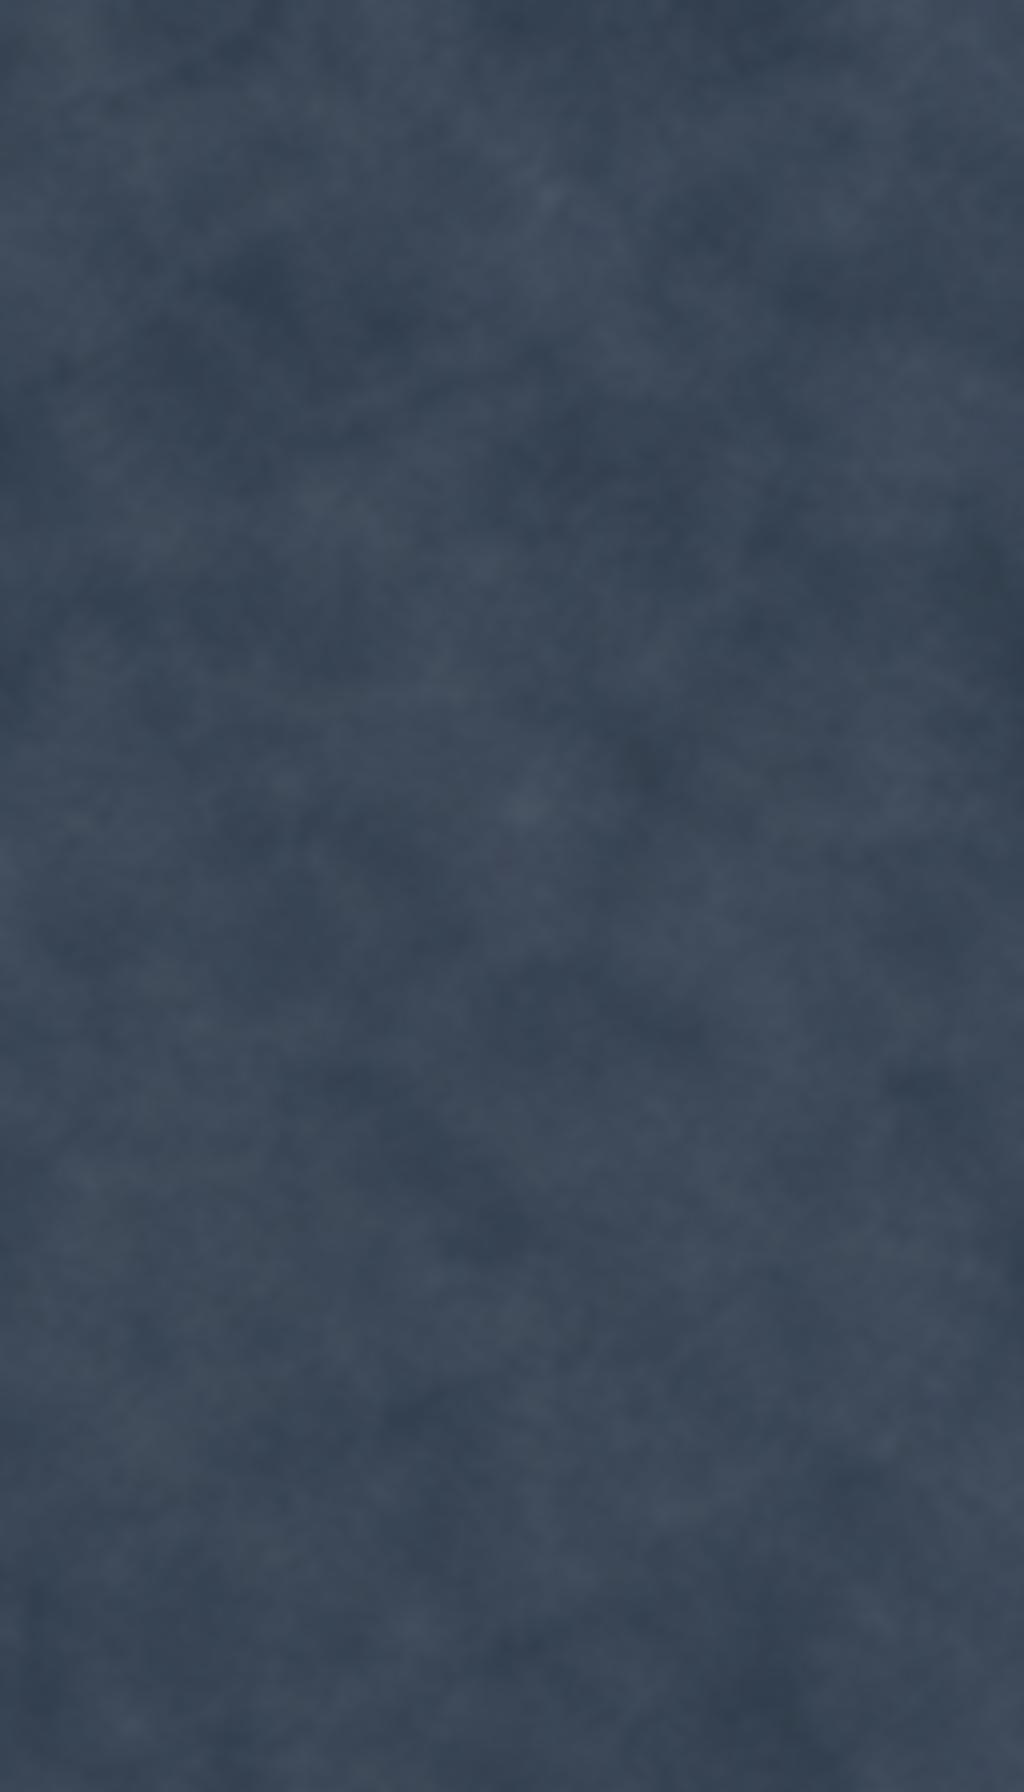
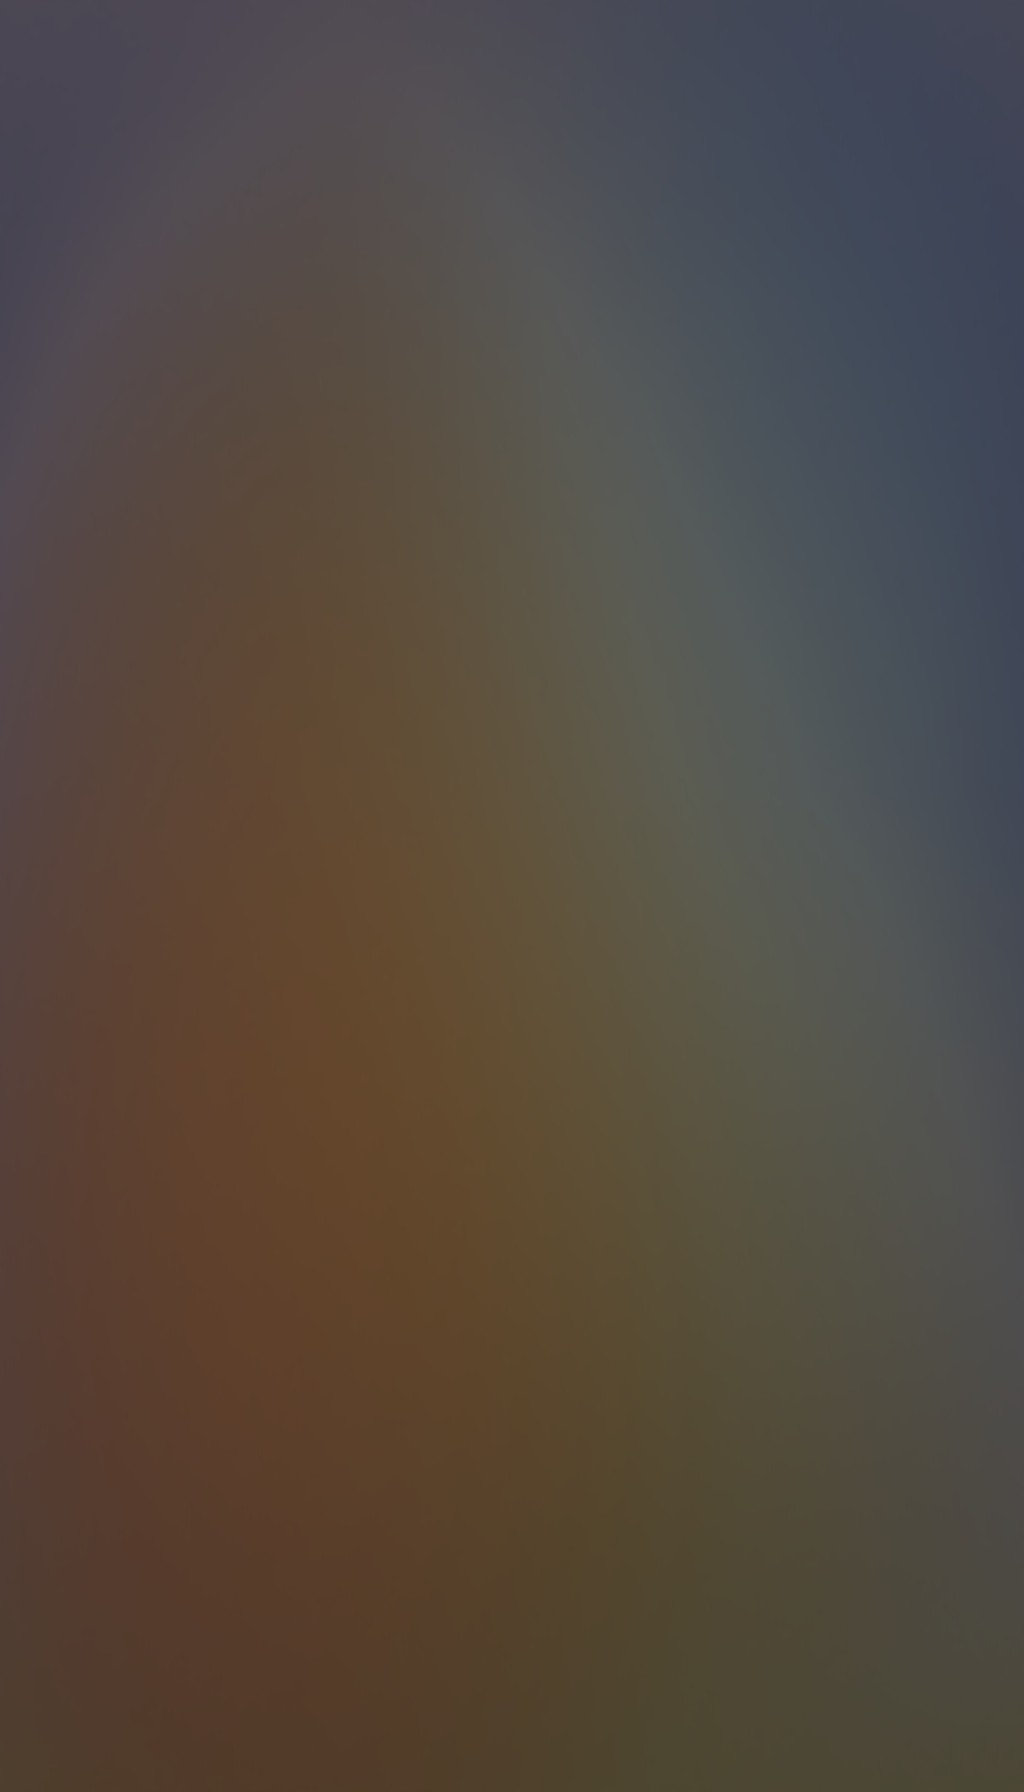
Le fond du builder reprend le dégradé du bandeau du site
Eric a aimé les couleurs du bandeau de la page d'accueil (le fond derrière
« Fate's Hand »). Les deux fonds du builder les reprennent — composition et
teintes : or #D8B65A, rouge #C97A5F, bleu #5A82AA sur un champ neutre.

⛔ PAS « À L'IDENTIQUE », ET C'EST MESURÉ. Le bandeau descend de #2E2C31 à
#171612, soit une luminance de ~45 à ~22. La bande de nuit du builder est
45–125. Or un fond trop sombre ne rend pas l'écran illisible : il fait
l'inverse, il monte le contraste de toutes les encres claires et fait PASSER
celles que la matrice exige de voir échouer. Trop sombre casse le garde par le
haut, exactement comme trop clair le casse par le bas. La composition est donc
conservée, la luminance réancrée dans la bande de chaque thème.

Les extrêmes visés sont ceux qui étaient EN PLACE, pas le milieu de la bande :
on remplace une image, pas un calibrage — toute la matrice de contraste reste
valide sans la réécrire.

  jour  : 142–169 (bande 104–190) · nuit : 74–102 (bande 45–125) · hors_bande 0
  --text tient partout (6,22 à 8,21) ; --text-soft et --accent restent sous
  4,5:1 sous les deux voiles, comme la matrice de shell.css l'exige.

TROIS CHOSES APPRISES EN MESURANT, ET QUI SONT DANS LE SCRIPT

1. La bande contraint la LUMINANCE, pas le CHROMA. Comprimés dans ~25 niveaux
   de gris, les deux premiers essais viraient au brouillard. Chaque pixel est
   donc écarté de son propre gris AVANT le réancrage : la couleur revient, la
   luminance retombe en bande.
[…]

diff --git a/ui/builder/index.html b/ui/builder/index.html
@@ -19,41 +19,41 @@
 <script type="importmap">
 {
   "imports": {
-    "../../src/build/block.mjs": "../../src/build/block.mjs?v=97",
-    "../../src/build/clock.mjs": "../../src/build/clock.mjs?v=97",
-    "../../src/build/decisions.mjs": "../../src/build/decisions.mjs?v=97",
-    "../../src/build/derive.mjs": "../../src/build/derive.mjs?v=97",
-    "../../src/build/diff.mjs": "../../src/build/diff.mjs?v=97",
-    "../../src/build/errors.mjs": "../../src/build/errors.mjs?v=97",
-    "../../src/build/paths.mjs": "../../src/build/paths.mjs?v=97",
-    "../../src/build/skills.mjs": "../../src/build/skills.mjs?v=97",
-    "../../src/build/validate.mjs": "../../src/build/validate.mjs?v=97",
-    "../../src/doc/errors.mjs": "../../src/doc/errors.mjs?v=97",
-    "../../src/doc/schema.mjs": "../../src/doc/schema.mjs?v=97",
-    "../../src/kernel/bus.mjs": "../../src/kernel/bus.mjs?v=97",
-    "../../src/kernel/registry.mjs": "../../src/kernel/registry.mjs?v=97",
-    "../../src/labels.mjs": "../../src/labels.mjs?v=97",
-    "../../src/layers/document.mjs": "../../src/layers/document.mjs?v=97",
-    "../../src/layers/paths.mjs": "../../src/layers/paths.mjs?v=97",
-    "../../src/layers/sha256.mjs": "../../src/layers/sha256.mjs?v=97",
-    "../../src/layers/stack.mjs": "../../src/layers/stack.mjs?v=97",
-    "../../src/modules/fh/labels.mjs": "../../src/modules/fh/labels.mjs?v=97",
-    "../../src/play/labels.mjs": "../../src/play/labels.mjs?v=97",
-    "../../src/schemas/invariants.mjs": "../../src/schemas/invariants.mjs?v=97"
+    "../../src/build/block.mjs": "../../src/build/block.mjs?v=98",
+    "../../src/build/clock.mjs": "../../src/build/clock.mjs?v=98",
+    "../../src/build/decisions.mjs": "../../src/build/decisions.mjs?v=98",
+    "../../src/build/derive.mjs": "../../src/build/derive.mjs?v=98",
+    "../../src/build/diff.mjs": "../../src/build/diff.mjs?v=98",
+    "../../src/build/errors.mjs": "../../src/build/errors.mjs?v=98",
+    "../../src/build/paths.mjs": "../../src/build/paths.mjs?v=98",
+    "../../src/build/skills.mjs": "../../src/build/skills.mjs?v=98",
+    "../../src/build/validate.mjs": "../../src/build/validate.mjs?v=98",
+    "../../src/doc/errors.mjs": "../../src/doc/errors.mjs?v=98",
+    "../../src/doc/schema.mjs": "../../src/doc/schema.mjs?v=98",
+    "../../src/kernel/bus.mjs": "../../src/kernel/bus.mjs?v=98",
+    "../../src/kernel/registry.mjs": "../../src/kernel/registry.mjs?v=98",
+    "../../src/labels.mjs": "../../src/labels.mjs?v=98",
+    "../../src/layers/document.mjs": "../../src/layers/document.mjs?v=98",
+    "../../src/layers/paths.mjs": "../../src/layers/paths.mjs?v=98",
+    "../../src/layers/sha256.mjs": "../../src/layers/sha256.mjs?v=98",
+    "../../src/layers/stack.mjs": "../../src/layers/stack.mjs?v=98",
+    "../../src/modules/fh/labels.mjs": "../../src/modules/fh/labels.mjs?v=98",
+    "../../src/play/labels.mjs": "../../src/play/labels.mjs?v=98",
+    "../../src/schemas/invariants.mjs": "../../src/schemas/invariants.mjs?v=98"
   }
 }
 </script>
-<link rel="stylesheet" href="./tokens.css?v=97">
-<link rel="stylesheet" href="./shell.css?v=97">
+<link rel="stylesheet" href="./tokens.css?v=98">
+<link rel="stylesheet" href="./shell.css?v=98">
 <!-- LOT 77 — la fiche à 360 (Class/Species). APRÈS `shell.css` : les
      quelques règles `.catalogue-*` qu'elle reprend le sont à égalité de
      spécificité, et c'est l'ordre qui tranche — délibérément. Elle porte le
      MÊME <N> que ses voisines (garde : tests/versions-graphe.test.mjs). -->
-<link rel="stylesheet" href="./fiche.css?v=97">
-<link rel="stylesheet" href="./dice3d.css?v=97">
+<link rel="stylesheet" href="./fiche.css?v=98">
+<link rel="stylesheet" href="./dice3d.css?v=98">
 </head>
 <body>
   <div id="app" class="app"></div>
-  <script type="module" src="./shell.mjs?v=97"></script>
+  <script type="module" src="./shell.mjs?v=98"></script>
 </body>
 </html>

diff --git a/ui/builder/ilots-lab.html b/ui/builder/ilots-lab.html
@@ -4,9 +4,9 @@
 <meta charset="utf-8">
 <meta name="viewport" content="width=device-width, initial-scale=1">
 <title>FS — banc d'essai des îlots</title>
-<link rel="stylesheet" href="./tokens.css?v=97">
-<link rel="stylesheet" href="./dice3d.css?v=97">
-<link rel="stylesheet" href="./shell.css?v=97">
+<link rel="stylesheet" href="./tokens.css?v=98">
+<link rel="stylesheet" href="./dice3d.css?v=98">
+<link rel="stylesheet" href="./shell.css?v=98">
 <style>
   /* ══ BANC D'ESSAI — pas une page du builder ═══════════════════════════
      Commande d'Eric, 2026-08-16 : six ÎLOTS (FS, « floating small ») en une
@@ -195,8 +195,8 @@ Les vrais organes : <code>dice3d.mjs</code> pour les dés, <code>glisser.mjs</co
 </section>
 
 <script type="module">
-import { createDieHost, mount } from "./dice3d.mjs?v=97";
-import { armerJeton } from "./glisser.mjs?v=97";
+import { createDieHost, mount } from "./dice3d.mjs?v=98";
+import { armerJeton } from "./glisser.mjs?v=98";
 
 /* LE TABLEAU STANDARD — les six valeurs, dans l'ordre d'Eric. C'est la seule
    liste écrite en dur de cette page, et c'est son sujet. */

diff --git a/ui/builder/tokens.css b/ui/builder/tokens.css
@@ -229,7 +229,7 @@
   /* `?v=<N>` (lot 75) : les fonds sont des chargements d'exécution — ils
      portent la version du graphe comme tout le reste, même <N> partout
      (garde : tests/versions-graphe.test.mjs ; loi : ui/builder/version.mjs). */
-  --bg-image: url("./assets/bg-day.jpg?v=97");
+  --bg-image: url("./assets/bg-day.jpg?v=98");
 
   /* ── LES TROIS VOILES (bible §5, « le verre ») ────────────────────────
      Le voile suit la DENSITÉ D'INFORMATION du panneau, pas le goût.
@@ -298,7 +298,7 @@
        teintes), et `--dalle-simple`/`--dalle-inter` non plus : une custom
        property se résout à L'USAGE, donc leur `var(--surface)` lit déjà la
        surface DE NUIT ici — même mécanique que `--accent-wash`. */
-    --bg-image: url("./assets/bg-night.jpg?v=97");
+    --bg-image: url("./assets/bg-night.jpg?v=98");
 
     /* --accent-wash N'EST PAS REDÉCLARÉ : une custom property se résout à
        l'usage, pas à la déclaration — `var(--accent)` dans le calcul

diff --git a/ui/builder/dice3d-lab.html b/ui/builder/dice3d-lab.html
@@ -4,7 +4,7 @@
 <meta charset="utf-8">
 <meta name="viewport" content="width=device-width, initial-scale=1">
 <title>dice3d — banc d'essai</title>
-<link rel="stylesheet" href="./dice3d.css?v=97">
+<link rel="stylesheet" href="./dice3d.css?v=98">
 <style>
   :root { --ecart: 4px; --taille: 72px; }
   * { box-sizing: border-box; }
@@ -81,7 +81,7 @@
   <pre id="verdict">Appuie sur ROLL.</pre>
 
 <script type="module">
-import { mount, createDieHost, rollDurationMs, sound } from "./dice3d.mjs?v=97";
+import { mount, createDieHost, rollDurationMs, sound } from "./dice3d.mjs?v=98";
 
 /* ── LE TÉMOIN ─────────────────────────────────────────────────────── */
 let frames = 0;

diff --git a/ui/builder/patron-image.html b/ui/builder/patron-image.html
@@ -84,11 +84,11 @@
   <h2>En attendant tes images — lequel des deux ?</h2>
   <div class="duo">
     <div class="choix">
-      <div class="slot"><img src="./assets/arcana/back.jpg?v=97" alt="dos de carte"></div>
+      <div class="slot"><img src="./assets/arcana/back.jpg?v=98" alt="dos de carte"></div>
       <span><b>A</b> — le dos de carte</span>
     </div>
     <div class="choix">
-      <div class="slot"><img src="./assets/arcana/the-hermit.jpg?v=97" alt="l'Ermite"></div>
+      <div class="slot"><img src="./assets/arcana/the-hermit.jpg?v=98" alt="l'Ermite"></div>
       <span><b>B</b> — un arcane</span>
     </div>
   </div>

diff --git a/ui/builder/abilities-info-lab.html b/ui/builder/abilities-info-lab.html
@@ -4,7 +4,7 @@
 <meta charset="utf-8">
 <meta name="viewport" content="width=device-width, initial-scale=1">
 <title>Abilities — the INFO panel</title>
-<link rel="stylesheet" href="./tokens.css?v=97">
+<link rel="stylesheet" href="./tokens.css?v=98">
 <style>
   /* ══ LE PANNEAU « INFO » DES CARACTÉRISTIQUES — banc d'essai ═══════════
      Commande d'Eric, 2026-08-16 : l'argumentaire des trois méthodes, en
